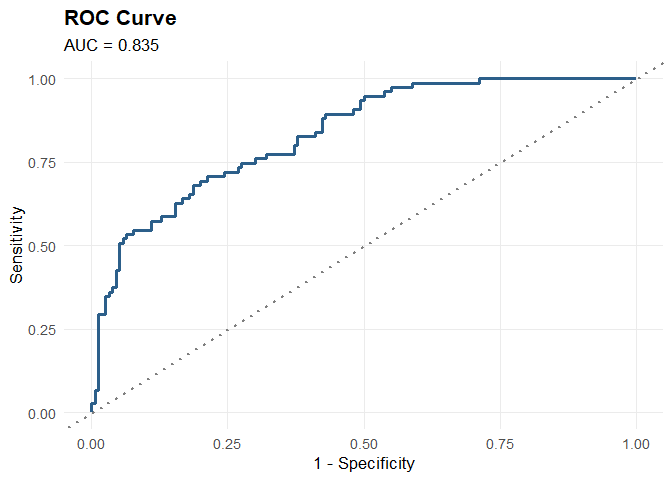
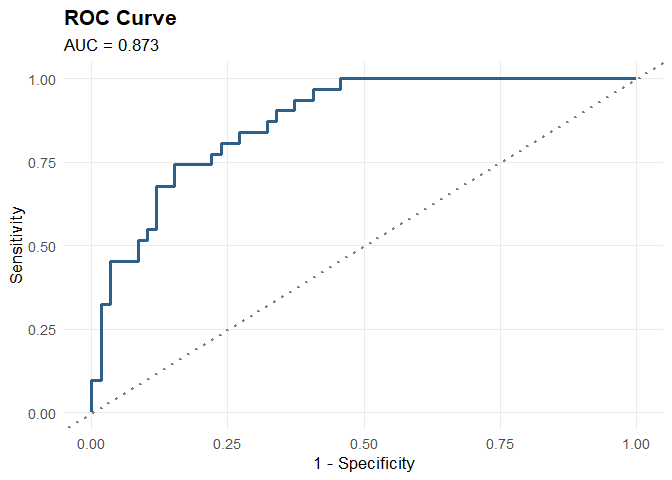
mlbench removed PimaIndiansDiabetes dataset, switch to MASS::Pima.tr2

diff --git a/README.md b/README.md
@@ -51,77 +51,29 @@ This example uses the PIMA Indians Diabetes dataset to demonstrate the
 full triageR pipeline, from raw data to a validated, explainable model.
 
 ``` r
-library(triageR)
-library(mlbench)
-
-data(PimaIndiansDiabetes)
-pima <- PimaIndiansDiabetes
-pima$id <- seq_len(nrow(pima))
-
-# convert physiologically impossible zeros to real missing values
-pima$glucose[pima$glucose == 0]   <- NA
-pima$pressure[pima$pressure == 0] <- NA
-pima$triceps[pima$triceps == 0]   <- NA
-pima$insulin[pima$insulin == 0]   <- NA
-pima$mass[pima$mass == 0]         <- NA
-
-# 1. Load and standardize
-pima_loaded <- tr_load_clinical(pima, id_col = "id")
-
-# 2. Check and impute missing data
-tr_check_missing(pima_loaded)
-#> Missing data summary:
-#> - 5 of 10 columns have missing values
-#> - 768 total rows
-#> 
-#> # A tibble: 10 × 3
-#>    column   n_missing pct_missing
-#>    <chr>        <int>       <dbl>
-#>  1 insulin        374        48.7
-#>  2 triceps        227        29.6
-#>  3 pressure        35         4.6
-#>  4 mass            11         1.4
-#>  5 glucose          5         0.7
-#>  6 pregnant         0         0  
-#>  7 pedigree         0         0  
-#>  8 age              0         0  
-#>  9 diabetes         0         0  
-#> 10 id               0         0
-```
-
-<img src="man/figures/README-example-1.png" alt="" width="100%" />
-
-``` r
-pima_imputed <- tr_impute(pima_loaded[, setdiff(names(pima_loaded), "id")],
-                           method = "mice", m = 5)
-```
-
-``` r
 # 3. Split, fit, and validate
 set.seed(42)
 train_idx <- sample(seq_len(nrow(pima_imputed)), size = floor(0.7 * nrow(pima_imputed)))
 train <- pima_imputed[train_idx, ]
 test  <- pima_imputed[-train_idx, ]
 
-model <- tr_fit(train, outcome = "diabetes", engine = "logistic_reg")
+model <- tr_fit(train, outcome = "type", engine = "logistic_reg")
 #> Model fitted successfully using engine: logistic_reg
 validation <- tr_validate(model, newdata = test)
 #> Validation metrics (newdata):
-#> 
 #> # A tibble: 4 × 3
 #>   .metric  .estimator .estimate
 #>   <chr>    <chr>          <dbl>
-#> 1 roc_auc  binary         0.835
-#> 2 sens     binary         0.587
-#> 3 spec     binary         0.865
-#> 4 accuracy binary         0.775
+#> 1 roc_auc  binary         0.873
+#> 2 sens     binary         0.742
+#> 3 spec     binary         0.797
+#> 4 accuracy binary         0.778
 #> 
 #> Confusion Matrix:
-#> 
 #>           Truth
-#> Prediction neg pos
-#>        neg 135  31
-#>        pos  21  44
+#> Prediction No Yes
+#>        No  47   8
+#>        Yes 12  23
 ```
 
 <img src="man/figures/README-example-model-1.png" alt="" width="100%" />
@@ -129,6 +81,10 @@ validation <- tr_validate(model, newdata = test)
 ``` r
 # 4. Review the pipeline for common pitfalls
 review <- tr_agent_review(train, model, use_agent = FALSE)
+#> 
+#> --- triageR Pipeline Review ---
+#> 
+#> No major issues flagged.
 ```
 
 See `vignette("triageR-intro")` for the full walkthrough, including
